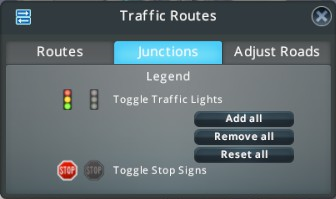
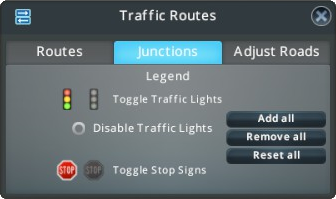
Update readme

diff --git a/README.md b/README.md
@@ -8,6 +8,7 @@ Tool to **remove or add traffic lights at junctions**. With Cities:Skylines patc
 * Activate and Deactivate the Junction Tool everywhere. Disabling the Intersection Tool restores the previous used tool.
 * Instead of just the white info mode you can use the Junction Tool in the default (colored) view.
 * Remove (or add or reset) all traffic lights at once.
+* Disable creation of traffic lights at new junctions. 
 
 # Description
 TTL provides access to two slightly different tools: The C:S built-in *Traffic Routes - Junctions Info View*, and the Junction Tool.
@@ -28,7 +29,14 @@ Besides the buttons you can also click on the icons while holding *Ctrl*. The co
 
 **Note**: All of these commands are executed immediately after you clicked the corresponding button. There's neither an additional confirmation nor a revert.
 
-**Note** These commands apply to all placed road junctions at the time you clicked on a command. Future created or changed junctions aren't affected by this. You have to execute the command again.
+**Note**: These commands apply to all placed road junctions at the time you clicked on a command. Future created or changed junctions aren't affected by this. You have to execute the command again.
+
+### Disable Traffic Lights
+When the checkbox is checked new junctions are always created without traffic lights.
+Existing Traffic Lights aren't touched by this option. Neither does it prevent manual toggling of traffic lights. All it does is ensure all newly created junctions don't have traffic lights.
+
+**Note**: This is set on a per savegame basis and is not a global setting! That means you can play one map with this option enabled (-> no traffic lights for new junctions), while on another map you use the default C:S behavior.
+
 
 ## Activation
 ![Deactivated button in the Roads Menu](./docs/files/img/Button_Deactivated.png)  
